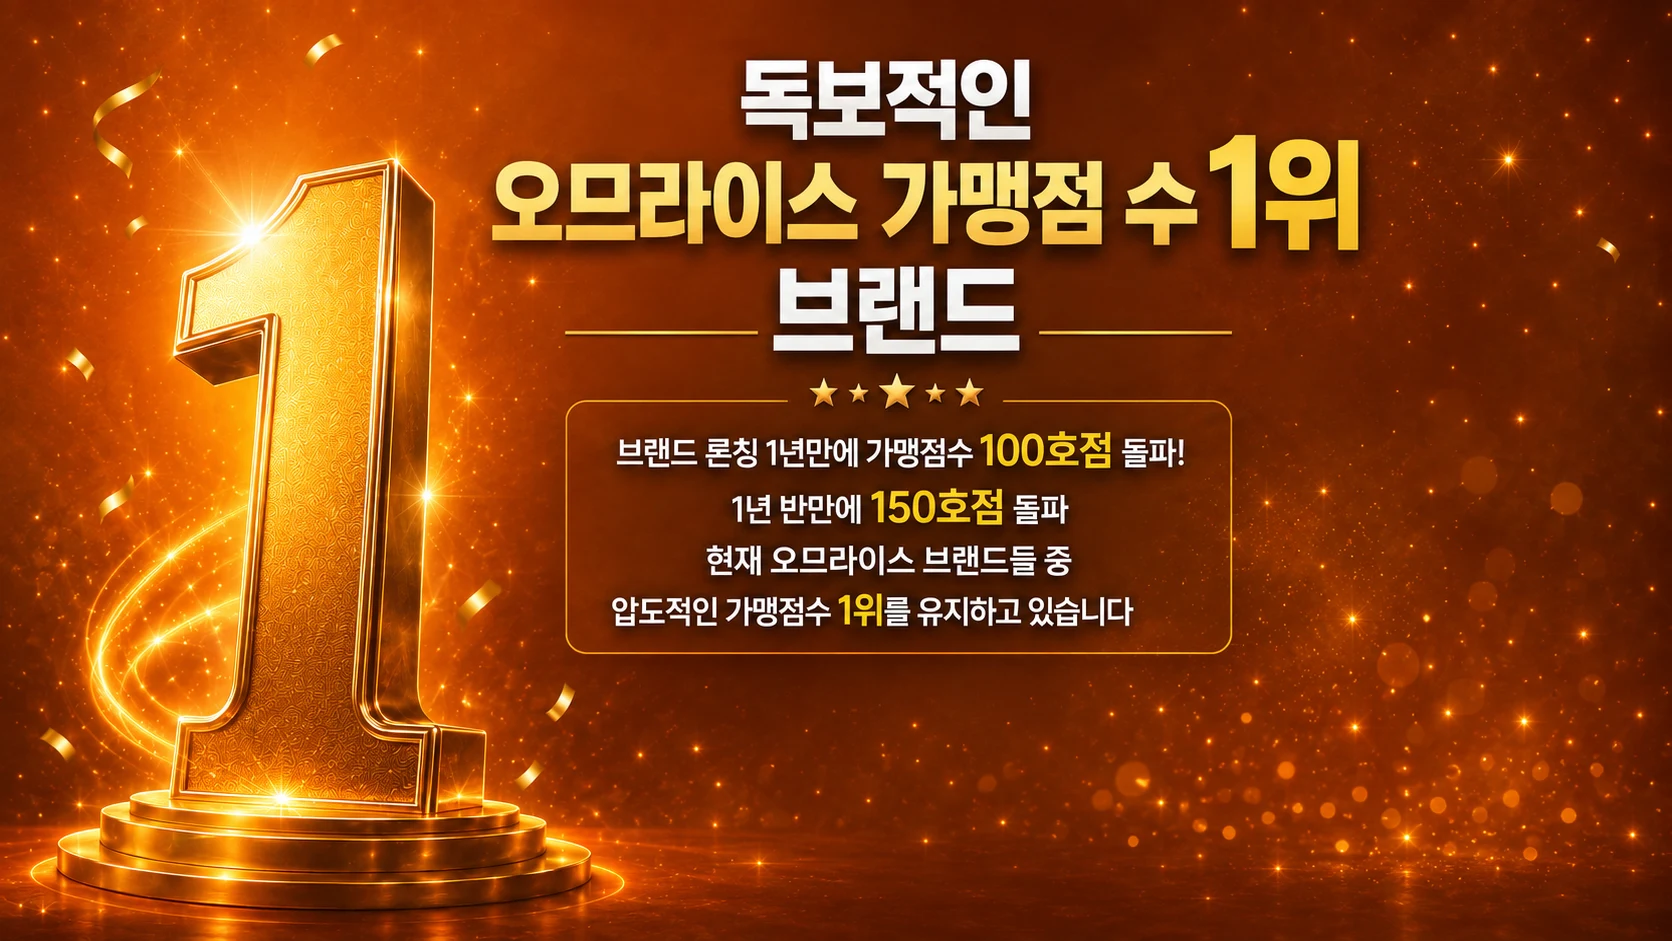
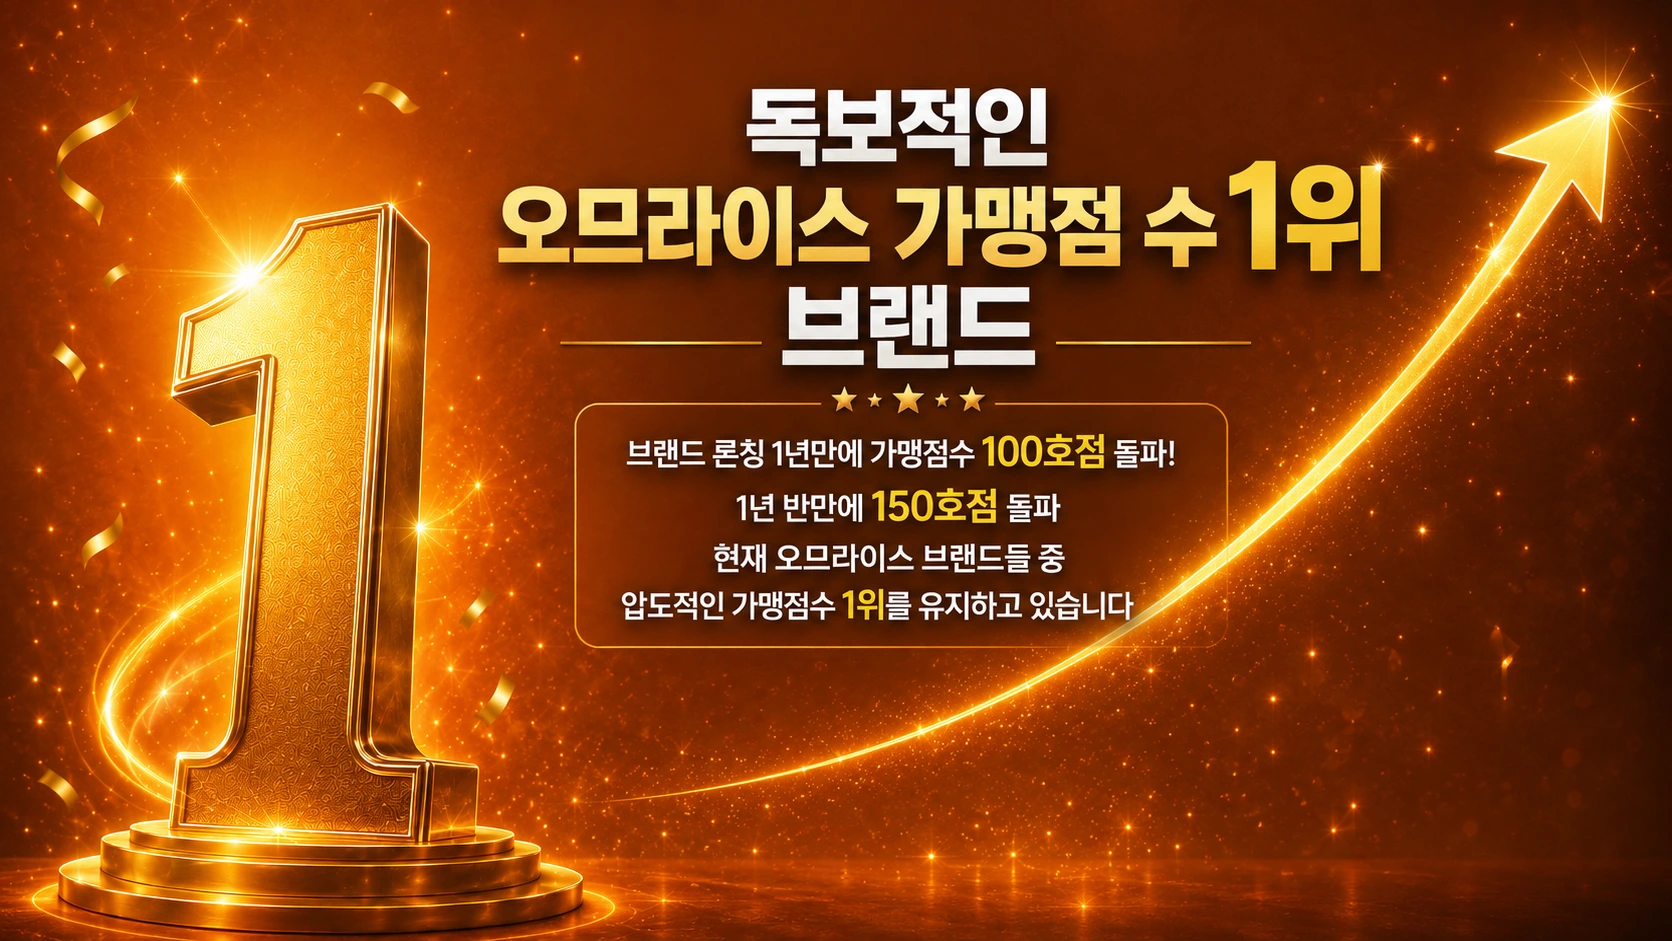
Fix: error

diff --git a/src/widgets/achievement-rank/ui/AchievementRankSection.tsx b/src/widgets/achievement-rank/ui/AchievementRankSection.tsx
@@ -10,30 +10,35 @@ const milestones = [
     month: '오픈',
     label: '100호점',
     height: 30,
+    desktopHeight: 24,
   },
   {
     year: '2026년',
     month: '1월',
     label: '13호점 오픈',
     height: 38,
+    desktopHeight: 32,
   },
   {
     year: '2026년',
     month: '2월',
     label: '6호점 오픈',
     height: 48,
+    desktopHeight: 42,
   },
   {
     year: '2026년',
     month: '3월',
     label: '13호점 오픈',
     height: 62,
+    desktopHeight: 55,
   },
   {
     year: '2026년',
     month: '4월',
     label: '10호점 오픈',
     height: 76,
+    desktopHeight: 70,
   },
   {
     year: '2026년',
@@ -41,6 +46,7 @@ const milestones = [
     label: '10호점 오픈',
     subLabel: '150호점 달성',
     height: 92,
+    desktopHeight: 86,
   },
 ];
 
@@ -79,9 +85,9 @@ export default function AchievementRankSection() {
           quality={90}
         />
 
-        <div className="absolute inset-0 bg-[radial-gradient(circle_at_50%_28%,rgba(255,214,94,0.12),transparent_32%),linear-gradient(180deg,rgba(36,13,4,0.02),rgba(36,13,4,0.3))]" />
+        <div className="absolute inset-0 bg-[radial-gradient(circle_at_50%_28%,rgba(255,214,94,0.12),transparent_32%),linear-gradient(180deg,rgba(36,13,4,0.02),rgba(36,13,4,0.3))] md:hidden" />
 
-        <div className="absolute bottom-[7%] left-[35%] right-[5%] hidden h-[36%] items-end justify-between gap-[1.1vw] md:flex">
+        <div className="absolute bottom-[4.5%] left-[42%] right-[7%] hidden h-[46%] items-end justify-between gap-[0.85vw] md:flex">
           {milestones.map((item, index) => (
             <motion.div
               key={`${item.year}-${item.month}`}
@@ -95,26 +101,26 @@ export default function AchievementRankSection() {
                 animate={isInView ? { scale: 1 } : {}}
                 transition={{ duration: 0.38, delay: 0.72 + index * 0.08, ease: 'backOut' }}
                 className="absolute z-20 h-5 w-5 rounded-full border border-[#fff3a8] bg-[radial-gradient(circle_at_35%_28%,#fff7b9_0,#ffd442_34%,#e48500_78%)] shadow-[0_0_18px_rgba(255,202,28,0.96)] lg:h-6 lg:w-6 xl:h-7 xl:w-7"
-                style={{ bottom: `${item.height}%` }}
+                style={{ bottom: `${item.desktopHeight}%` }}
               />
               <motion.div
                 initial={{ scaleY: 0 }}
                 animate={isInView ? { scaleY: 1 } : {}}
                 transition={{ duration: 0.72, delay: 0.48 + index * 0.08, ease: [0.16, 1, 0.3, 1] }}
-                className="relative w-full max-w-[128px] origin-bottom rounded-t-[22px] border border-[#fff2a2]/80 bg-[linear-gradient(180deg,#fff3b8_0%,#ffd876_44%,#fff0bb_100%)] shadow-[0_0_22px_rgba(255,190,34,0.56),inset_0_0_18px_rgba(255,255,255,0.46)]"
-                style={{ height: `${item.height}%` }}
+                className="relative w-full max-w-[112px] origin-bottom rounded-t-[22px] border border-[#fff2a2]/80 bg-[linear-gradient(180deg,#fff3b8_0%,#ffd876_44%,#fff0bb_100%)] shadow-[0_0_22px_rgba(255,190,34,0.56),inset_0_0_18px_rgba(255,255,255,0.46)]"
+                style={{ height: `${item.desktopHeight}%` }}
               />
               <div
-                className="absolute z-20 -translate-y-3 text-center font-black leading-tight text-white drop-shadow-[0_3px_4px_rgba(0,0,0,0.86)]"
-                style={{ bottom: `${item.height}%` }}
+                className="absolute z-20 -translate-y-2 text-center font-black leading-tight text-white drop-shadow-[0_3px_4px_rgba(0,0,0,0.86)]"
+                style={{ bottom: `${item.desktopHeight}%` }}
               >
-                <span className="block text-[clamp(13px,1.05vw,19px)]">{item.year}</span>
-                <span className="block text-[clamp(12px,0.95vw,17px)]">{item.month}</span>
-                <span className="block whitespace-nowrap text-[clamp(14px,1.12vw,20px)] text-[#ffe44a]">
+                <span className="block text-[clamp(11px,0.9vw,16px)]">{item.year}</span>
+                <span className="block text-[clamp(11px,0.86vw,15px)]">{item.month}</span>
+                <span className="block whitespace-nowrap text-[clamp(12px,0.92vw,16px)] text-[#ffe44a]">
                   {item.label}
                 </span>
                 {item.subLabel ? (
-                  <span className="block whitespace-nowrap text-[clamp(13px,1vw,18px)] text-[#ffe44a]">
+                  <span className="block whitespace-nowrap text-[clamp(11px,0.86vw,15px)] text-[#ffe44a]">
                     {item.subLabel}
                   </span>
                 ) : null}

diff --git a/src/widgets/revenue-proof/ui/RevenueProofSection.tsx b/src/widgets/revenue-proof/ui/RevenueProofSection.tsx
@@ -44,12 +44,10 @@ function CountingAmount({
 }) {
   const [displayValue, setDisplayValue] = useState('0');
   const targetValue = Number(value.replace(/[^\d]/g, ''));
+  const isNumericValue = !Number.isNaN(targetValue);
 
   useEffect(() => {
-    if (!active || Number.isNaN(targetValue)) {
-      setDisplayValue('0');
-      return;
-    }
+    if (!active || !isNumericValue) return;
 
     const controls = animate(0, targetValue, {
       duration: 2.35,
@@ -63,14 +61,14 @@ function CountingAmount({
     });
 
     return () => controls.stop();
-  }, [active, targetValue]);
+  }, [active, isNumericValue, targetValue]);
 
   return (
     <span
       aria-label={value}
       className={`inline-block max-w-full overflow-visible whitespace-nowrap tabular-nums [font-variant-numeric:tabular-nums] ${className ?? ''}`}
     >
-      {displayValue}
+      {isNumericValue ? displayValue : value}
     </span>
   );
 }